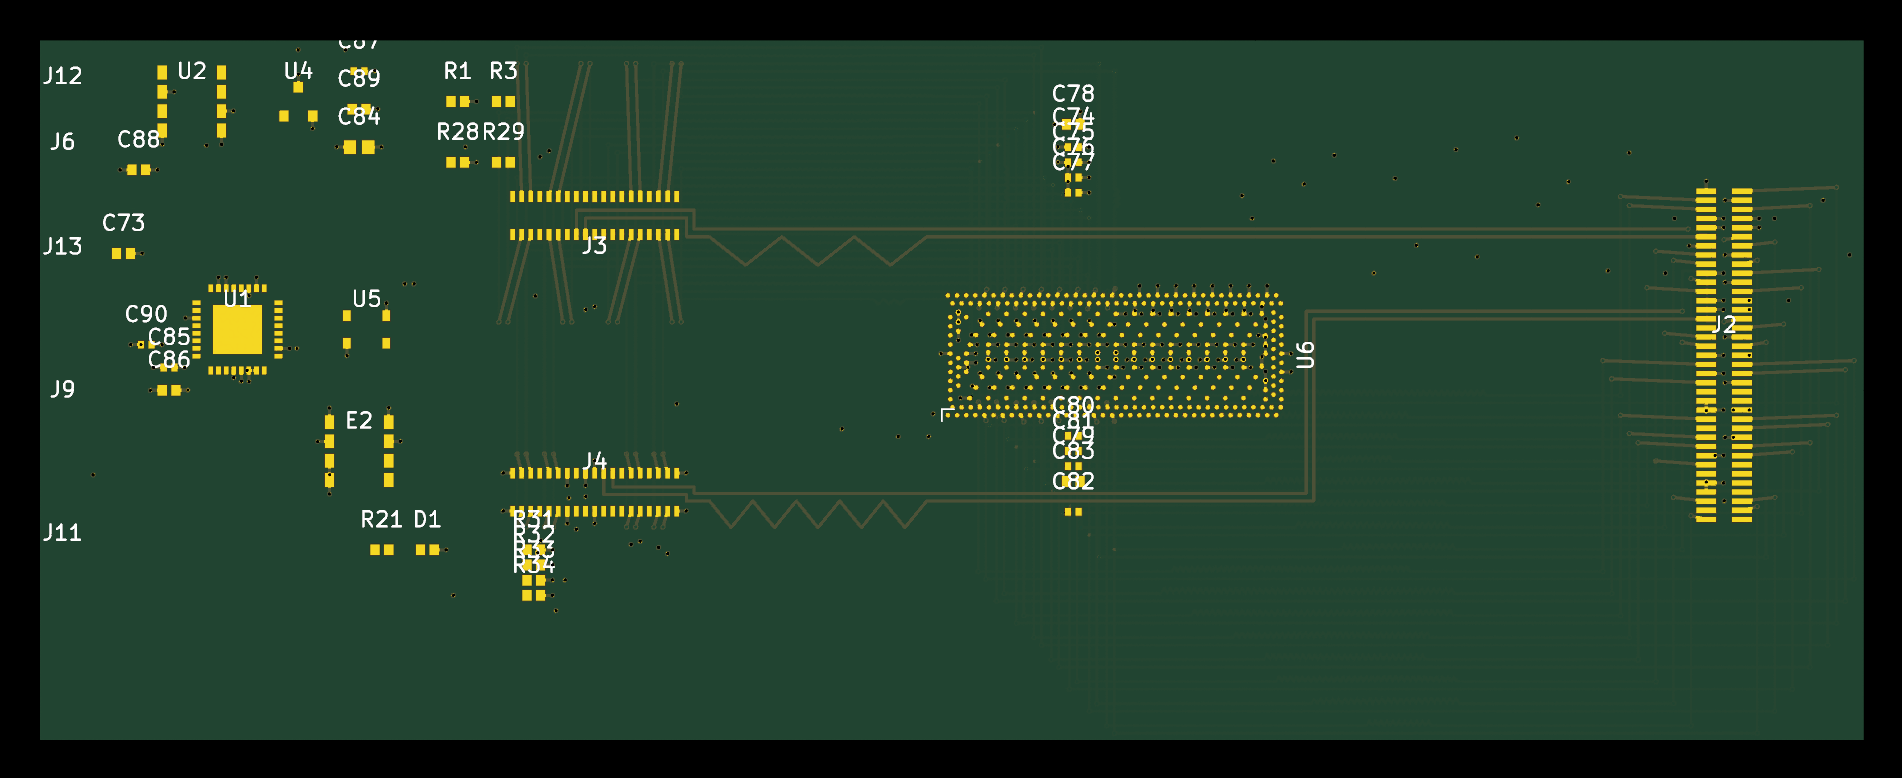
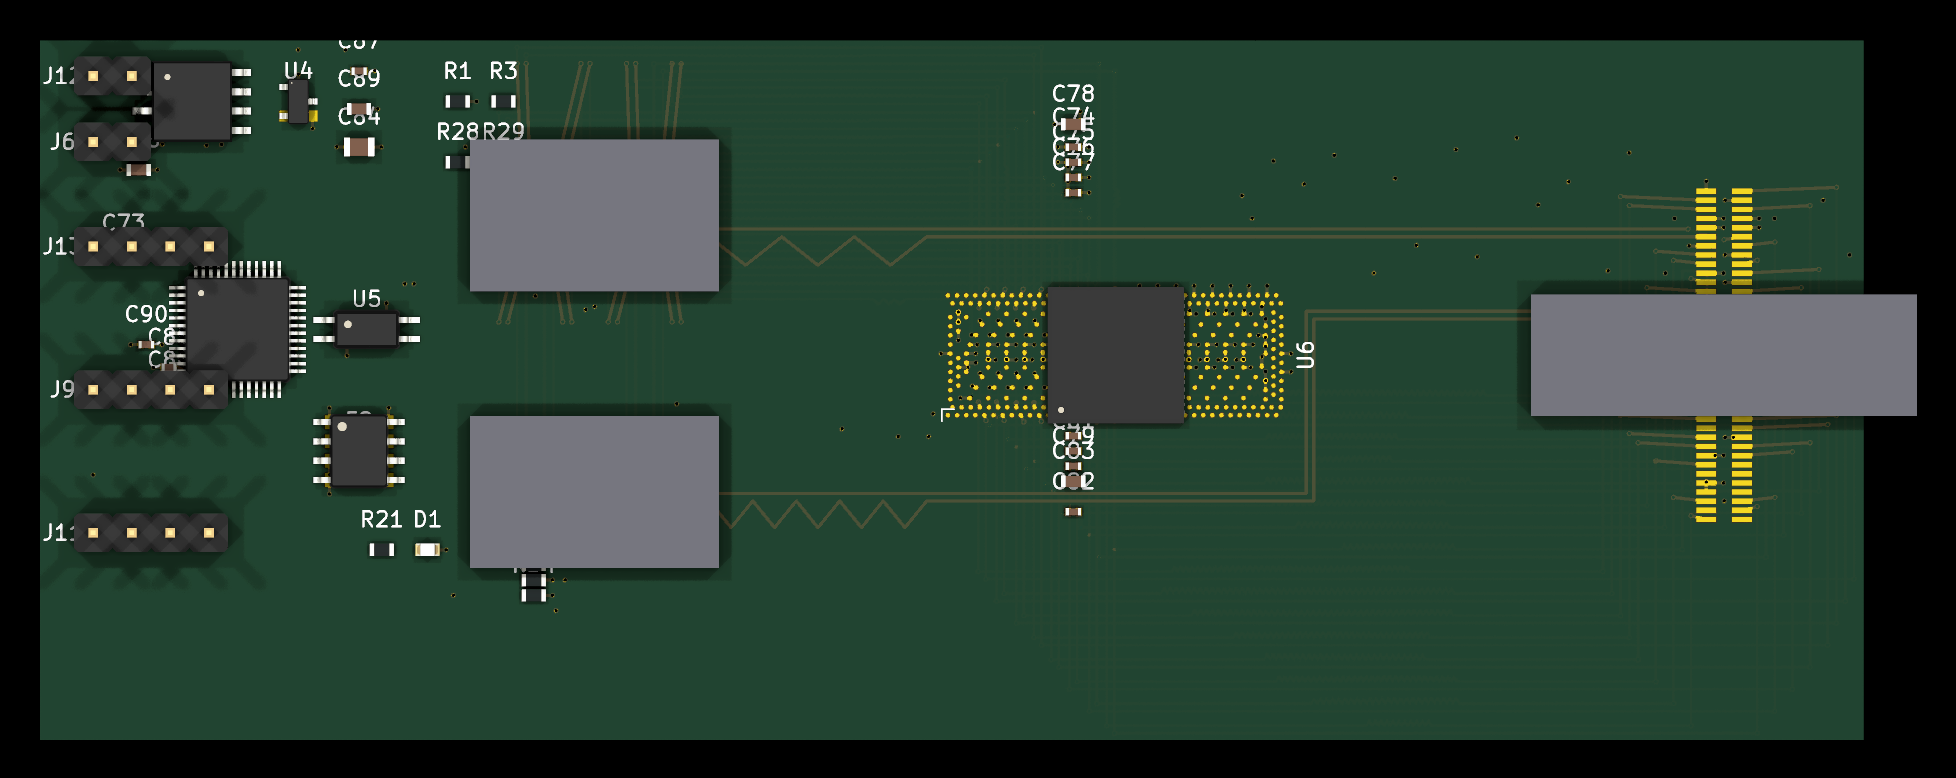
docs(k2): 3D 渲染带元件模型（注入 42 个 3D 模型，含等轴测图）；连接器用简化方块

diff --git a/README.md b/README.md
@@ -13,7 +13,12 @@ Top view of the fabrication release board (`hw/k2_v4_8L.l4.kicad_pcb`, 120 × 46
 
 ![K2 PCB — 2D top view](docs/images/k2_pcb_top.png)
 
+![K2 PCB — 3D render (isometric)](docs/images/k2_pcb_3d_iso.png)
+
 ![K2 PCB — 3D render (top)](docs/images/k2_pcb_3d.png)
+
+*3D renders use KiCad stock models. The MCIO and SlimSAS connectors have no vendor
+3D models and are shown as simplified blocks.*
 
 ## Overview
 

diff --git a/README.zh-CN.md b/README.zh-CN.md
@@ -12,7 +12,11 @@
 
 ![K2 PCB — 2D 顶视图](docs/images/k2_pcb_top.png)
 
+![K2 PCB — 3D 渲染（等轴测）](docs/images/k2_pcb_3d_iso.png)
+
 ![K2 PCB — 3D 渲染（顶视）](docs/images/k2_pcb_3d.png)
+
+*3D 渲染使用 KiCad 官方模型；MCIO 与 SlimSAS 连接器无厂商 3D 模型，以简化方块代替。*
 
 ## 概述
 
